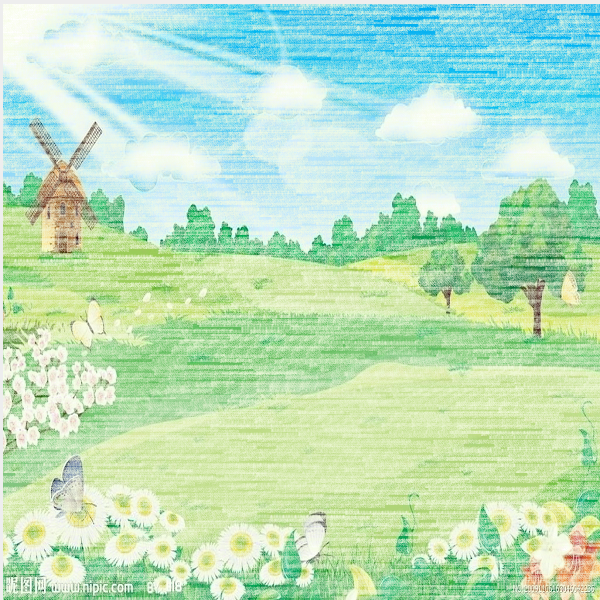
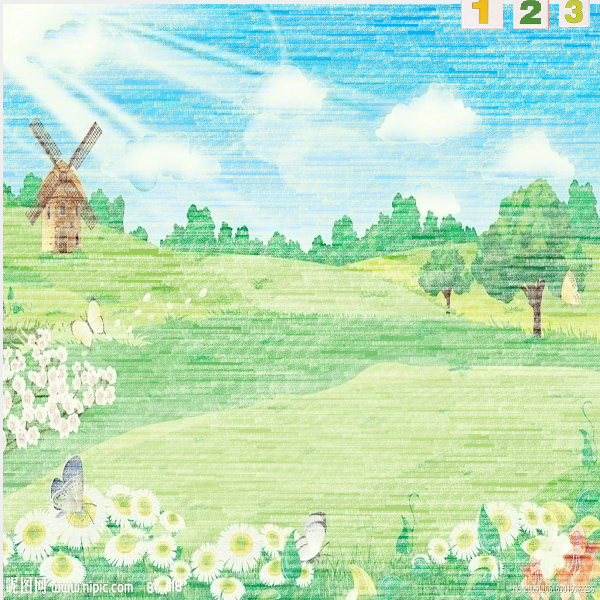
Add background and "blocker"

Changed region(s): [[0.75, 0.0, 0.99, 0.06]]

diff --git a/scripts/game.js b/scripts/game.js
@@ -36,24 +36,35 @@
 
         var self = this;
         var next = app.combine.next();
-        $("#nextEntity").attr("src", "img/" + next.imgName + ".png");
+        var second = app.combine.next();
+        var third = app.combine.next();
+        this.updateComingQueue(next, second, third);
 
         $("#debug").bind("click", (function (e) {
             var
                 offset = $("#debug").offset(),
                 indexX = Math.floor((e.pageX - offset.left) / self.fixLength),
                 indexY = Math.floor((e.pageY - offset.top) / self.fixLength),
-                x = indexX * self.fixLength + self.fixLength / 2,
-                y = indexY * self.fixLength + self.fixLength / 2,
+                x = self.calculatePosition(indexX),
+                y = self.calculatePosition(indexY),
                 found = false,
                 entity,
                 position,
-                goDeep;
+                goDeep,
+                rc;
 
             entity = next;
 
             if (entity instanceof app.combine.Bomb) {
                 self.removeEntities([{ indexX: indexX, indexY: indexY }]);
+            }
+            else if (entity instanceof app.combine.Blocker) {
+                // find a random empty place, animation, and then put it there
+                rc = self.findRandomEmptyCell();
+
+                if (rc !== undefined) {
+                    self.addEntity(rc.x, rc.y, new app.entity.Blocker(self.calculatePosition(rc.x), self.calculatePosition(rc.y), entity));
+                }
             }
             else if (!(self.entities[indexX][indexY] instanceof app.entity.Animal)) {
                 do {
@@ -75,14 +86,46 @@
                 return;
             }
             
-            next = app.combine.next();
-            $("#nextEntity").attr("src", "img/" + next.imgName + ".png");
+            next = second;
+            second = third;
+            third = app.combine.next();
+            self.updateComingQueue(next, second, third);
             $("#score").text(parseInt($("#score").text()) + entity.score);
         }));
 
         // after initialization, hook up to and start the dispatcher to begin calling updates
         app.util.dispatcher.register(this);
         app.util.dispatcher.start();
+    }
+
+    Game.prototype.calculatePosition = function (index) {
+        return index * this.fixLength + this.fixLength / 2;
+    }
+
+    Game.prototype.findRandomEmptyCell = function () {
+        //$TODO: optimize and cache empty list later
+        var
+            number = 0,
+            empty = [];
+
+        for (var i = 0; i < this.entities.length; i++) {
+            for (var j = 0; j < this.entities[i].length; j++) {
+                if (this.entities[i][j] === null || this.entities[i][j] === undefined) {
+                    empty.push({ x: i, y: j });
+                }
+            }
+        }
+
+        if (empty.length > 0) {
+            number = parseInt((Math.random() * empty.length));
+            return empty[number];
+        }
+    }
+
+    Game.prototype.updateComingQueue = function (next, second, third) {
+        $("#nextEntity").attr("src", "img/" + next.imgName + ".png");
+        $("#secondEntity").attr("src", "img/" + second.imgName + ".png");
+        $("#thirdEntity").attr("src", "img/" + third.imgName + ".png");
     }
 
     Game.prototype.findGroup = function (x, y, entity) {

diff --git a/scripts/entities.js b/scripts/entities.js
@@ -356,6 +356,43 @@
 	    }
 	});
 
+    // $TODO: Blocker definitely not an Animal, rename Animal to Sqaure
+	var Blocker = Animal.extend({
+	    init: function (positionX, positionY, config) {
+	        this._super(470, 0, config);
+	        this.positionX = positionX;
+	        this.positionY = positionY;
+	        this.timeInterval = 0;
+	        this.i = 0;
+	        this.j = 0;
+	        this.r = 100;
+	        this.step = .2;
+	    },
+
+	    update: function (time) {
+	        var delta = time.delta;
+	        this.timeInterval += delta;
+
+	        if (this.timeInterval > 0.05) {
+
+	            if (this.i <= 8) {
+	                this.timeInterval = 0;
+	                this.i += this.step;
+
+	                
+	                this.setPosition(this.r * Math.cos(this.i) + 300, this.r * Math.sin(this.i) + 300);
+	            }
+	            else if (this.j < 20) {
+	                var position = this.getPosition();
+
+                    
+
+	                this.setPosition(position.x + (this.positionX - position.x) / 20, position.y + (this.positionY - position.y) / 20);
+	            }
+	        }
+	    },
+	});
+
 	var Devil = GameEntity.extend({
 	    init: function (positionX, positionY) {
 	        var square = app.util.Box2dUtil.createBox(new b2Vec2(positionX, positionY), 100, 100, 0, 1, true);
@@ -384,7 +421,7 @@
 	    },
 	});
 
-	app.entity.Devil = Devil;
+	app.entity.Blocker = Blocker;
 	app.entity.Animal = Animal;
 	app.entity.EntityBase = EntityBase;
 	app.entity.Sprite = Sprite;

diff --git a/index.html b/index.html
@@ -16,6 +16,8 @@
                 <label>Score:</label>
                 <label id="score">0</label>
                 <img id="nextEntity" src="img/beetle.png" />
+                <img id="secondEntity" src="img/beetle.png" />
+                <img id="thirdEntity" src="img/beetle.png" />
             </div>
             <canvas id="surface" width="600" height="600"></canvas>
             <canvas id="debug" width="600" height="600"></canvas>
@@ -41,9 +43,8 @@
     <script src="scripts/box2dUtil.js"></script>
     <script src="scripts/dispatcher.js"></script>
     <script src="scripts/transform.js"></script>
-    <script src="scripts/config.js"></script>
+    <script src="scripts/combine.js"></script>  
     <script src="scripts/entities.js"></script>
-    <script src="scripts/combine.js"></script>
     <script src="scripts/game.js"></script>
 </body>
 </html>

diff --git a/scripts/combine.js b/scripts/combine.js
@@ -86,9 +86,15 @@
     });
 
     var Bomb = Config.extend({
-        init: function (promotion) {
-            this._super("bomb", 30, "bomb", promotion, 0);
+        init: function () {
+            this._super("bomb", 30, "bomb", undefined, 0);
         },
+    });
+
+    var Blocker = Config.extend({
+        init: function () {
+            this._super("blocker", 50, "blocker", undefined, 0);
+        }
     });
 
 
@@ -118,7 +124,8 @@
         this.entities.push(lion);
         this.entities.push(elephant);
         this.entities.push(whale);
-        this.entities.push(new Bomb);
+        this.entities.push(new Bomb());
+        this.entities.push(new Blocker());
     };
 
     Combine.prototype.next = function () {
@@ -144,4 +151,5 @@
 
     app.combine = new Combine();
     app.combine.Bomb = Bomb;
+    app.combine.Blocker = Blocker;
 }(app));

diff --git a/scripts/assets.js b/scripts/assets.js
@@ -140,6 +140,7 @@
         this.addImage('rabbit');
         this.addImage('sheep');
         this.addImage('whale');
+        this.addImage('blocker');
 
         //sounds
         this.addSound('bumper1');

diff --git a/css/styles.css b/css/styles.css
@@ -24,5 +24,5 @@
 }
 
 #nextEntity {
-    margin-left: 490px;
+    margin-left: 400px;
 }
